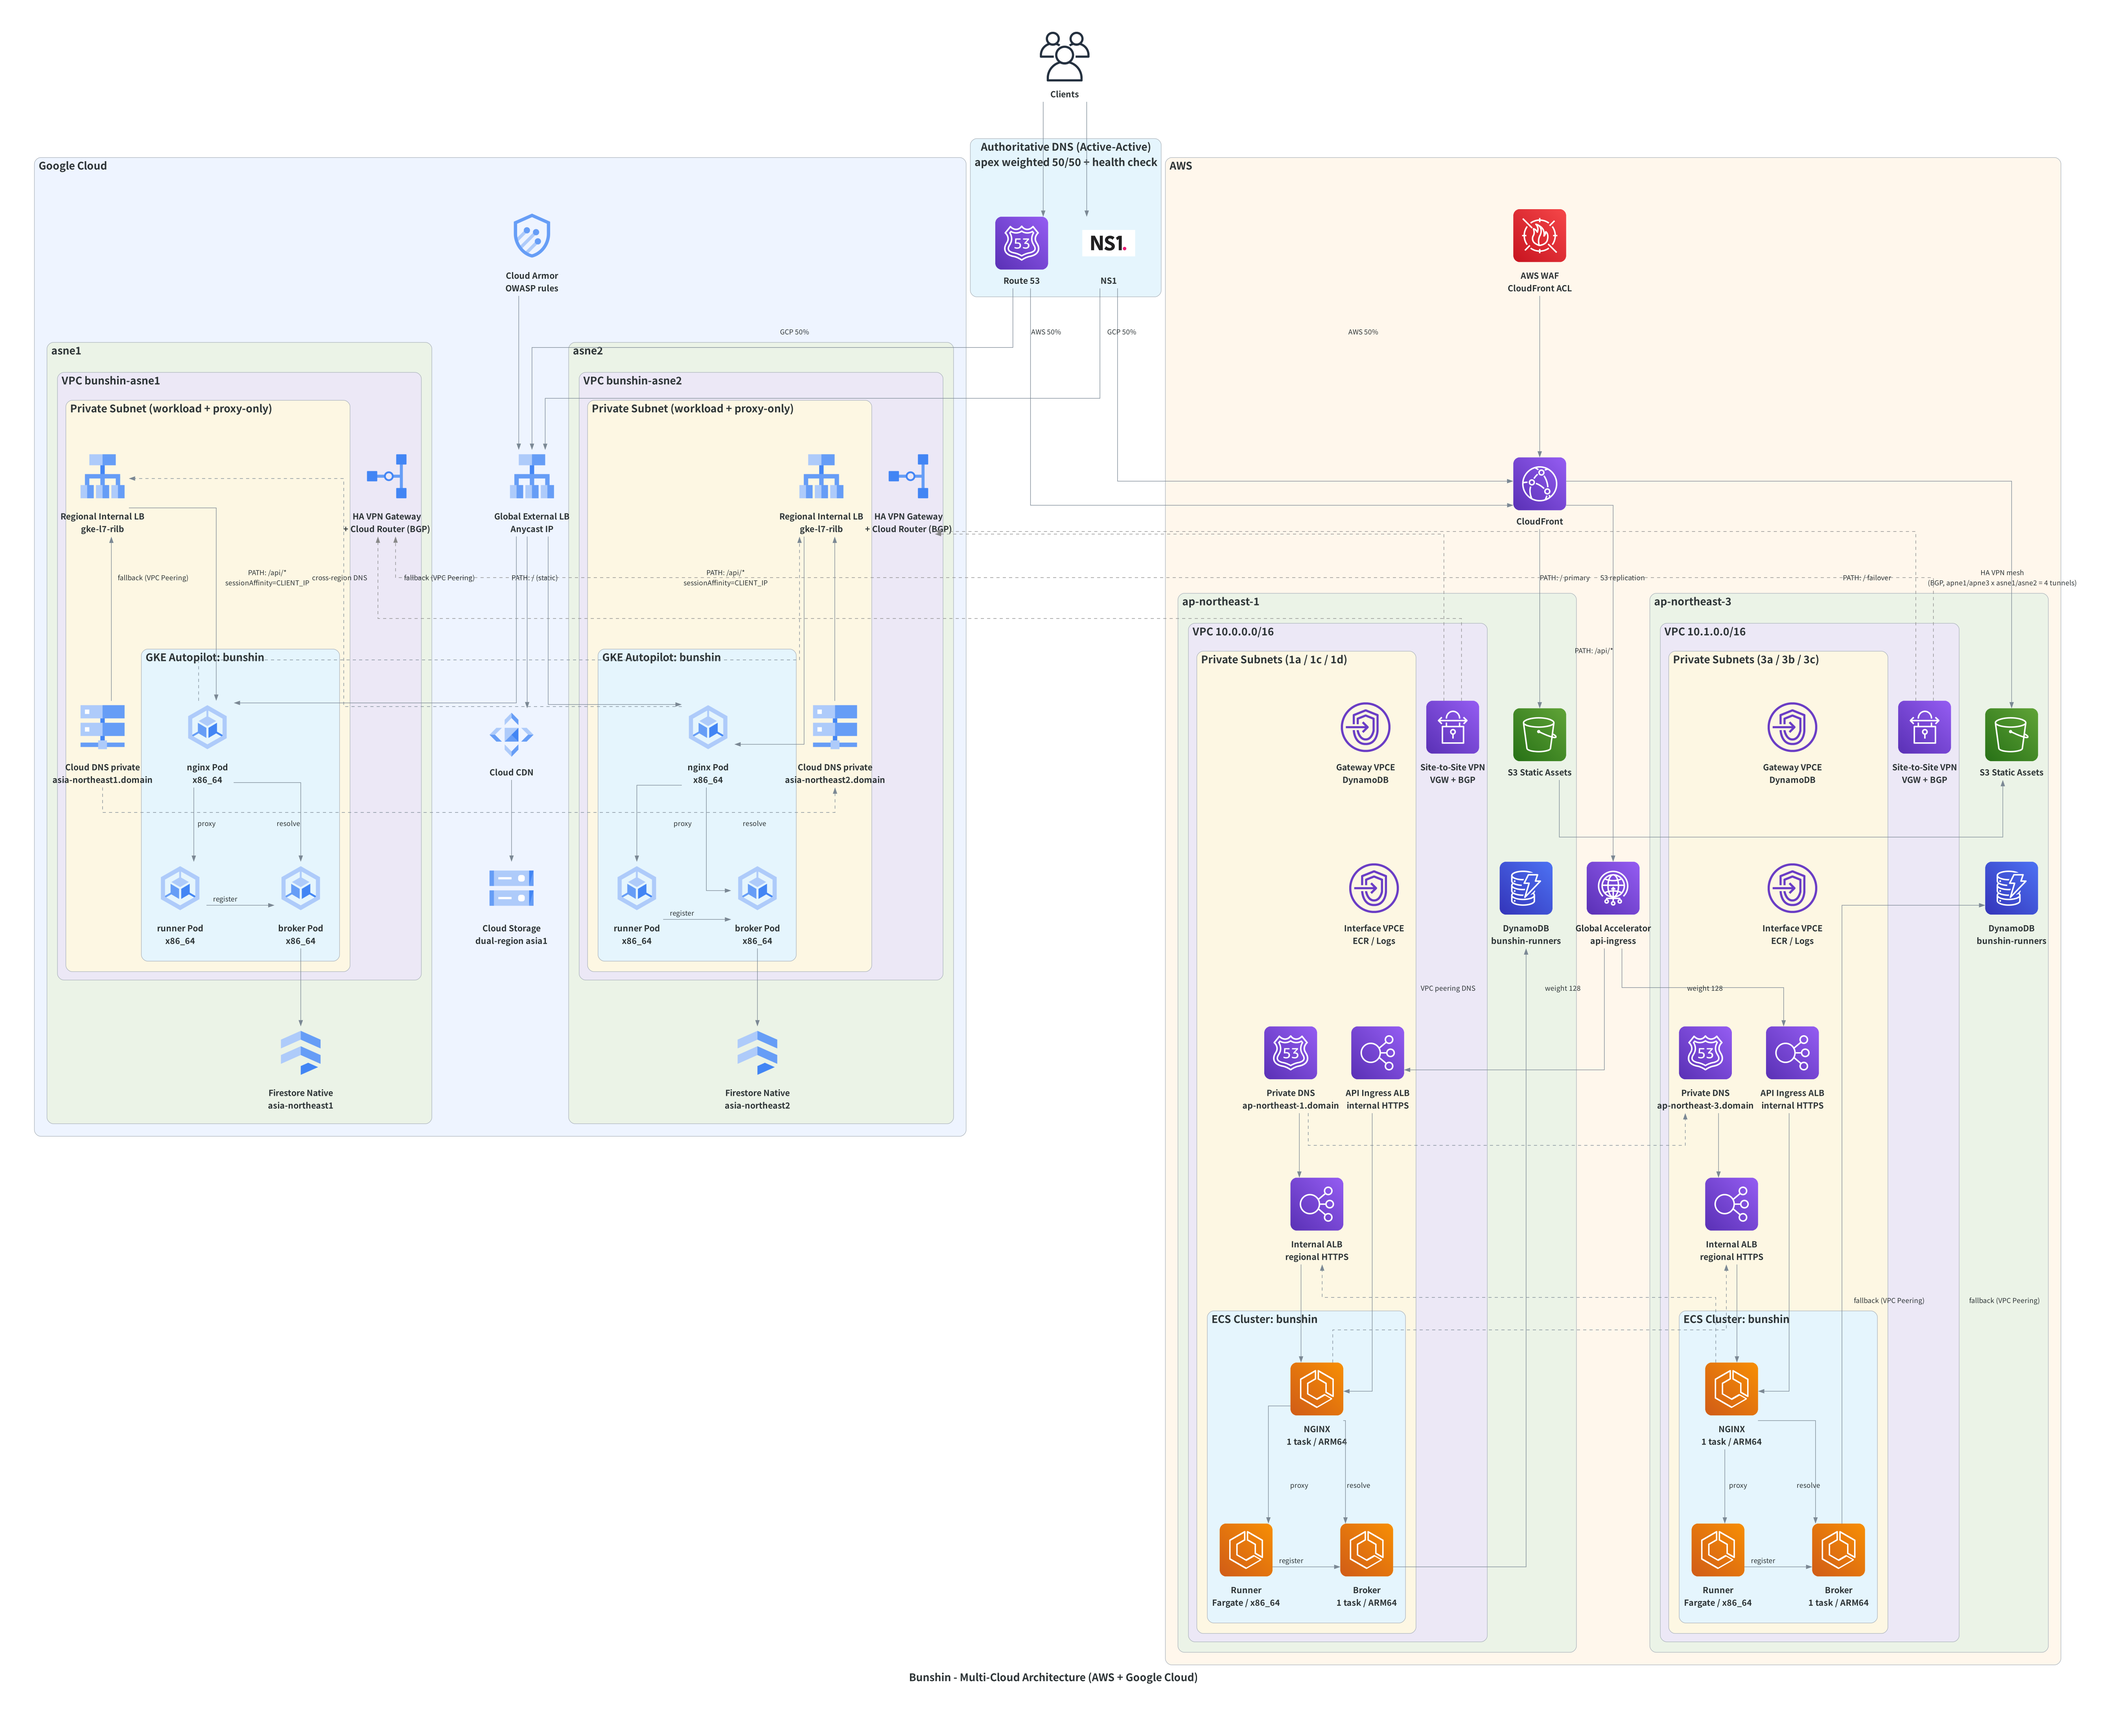
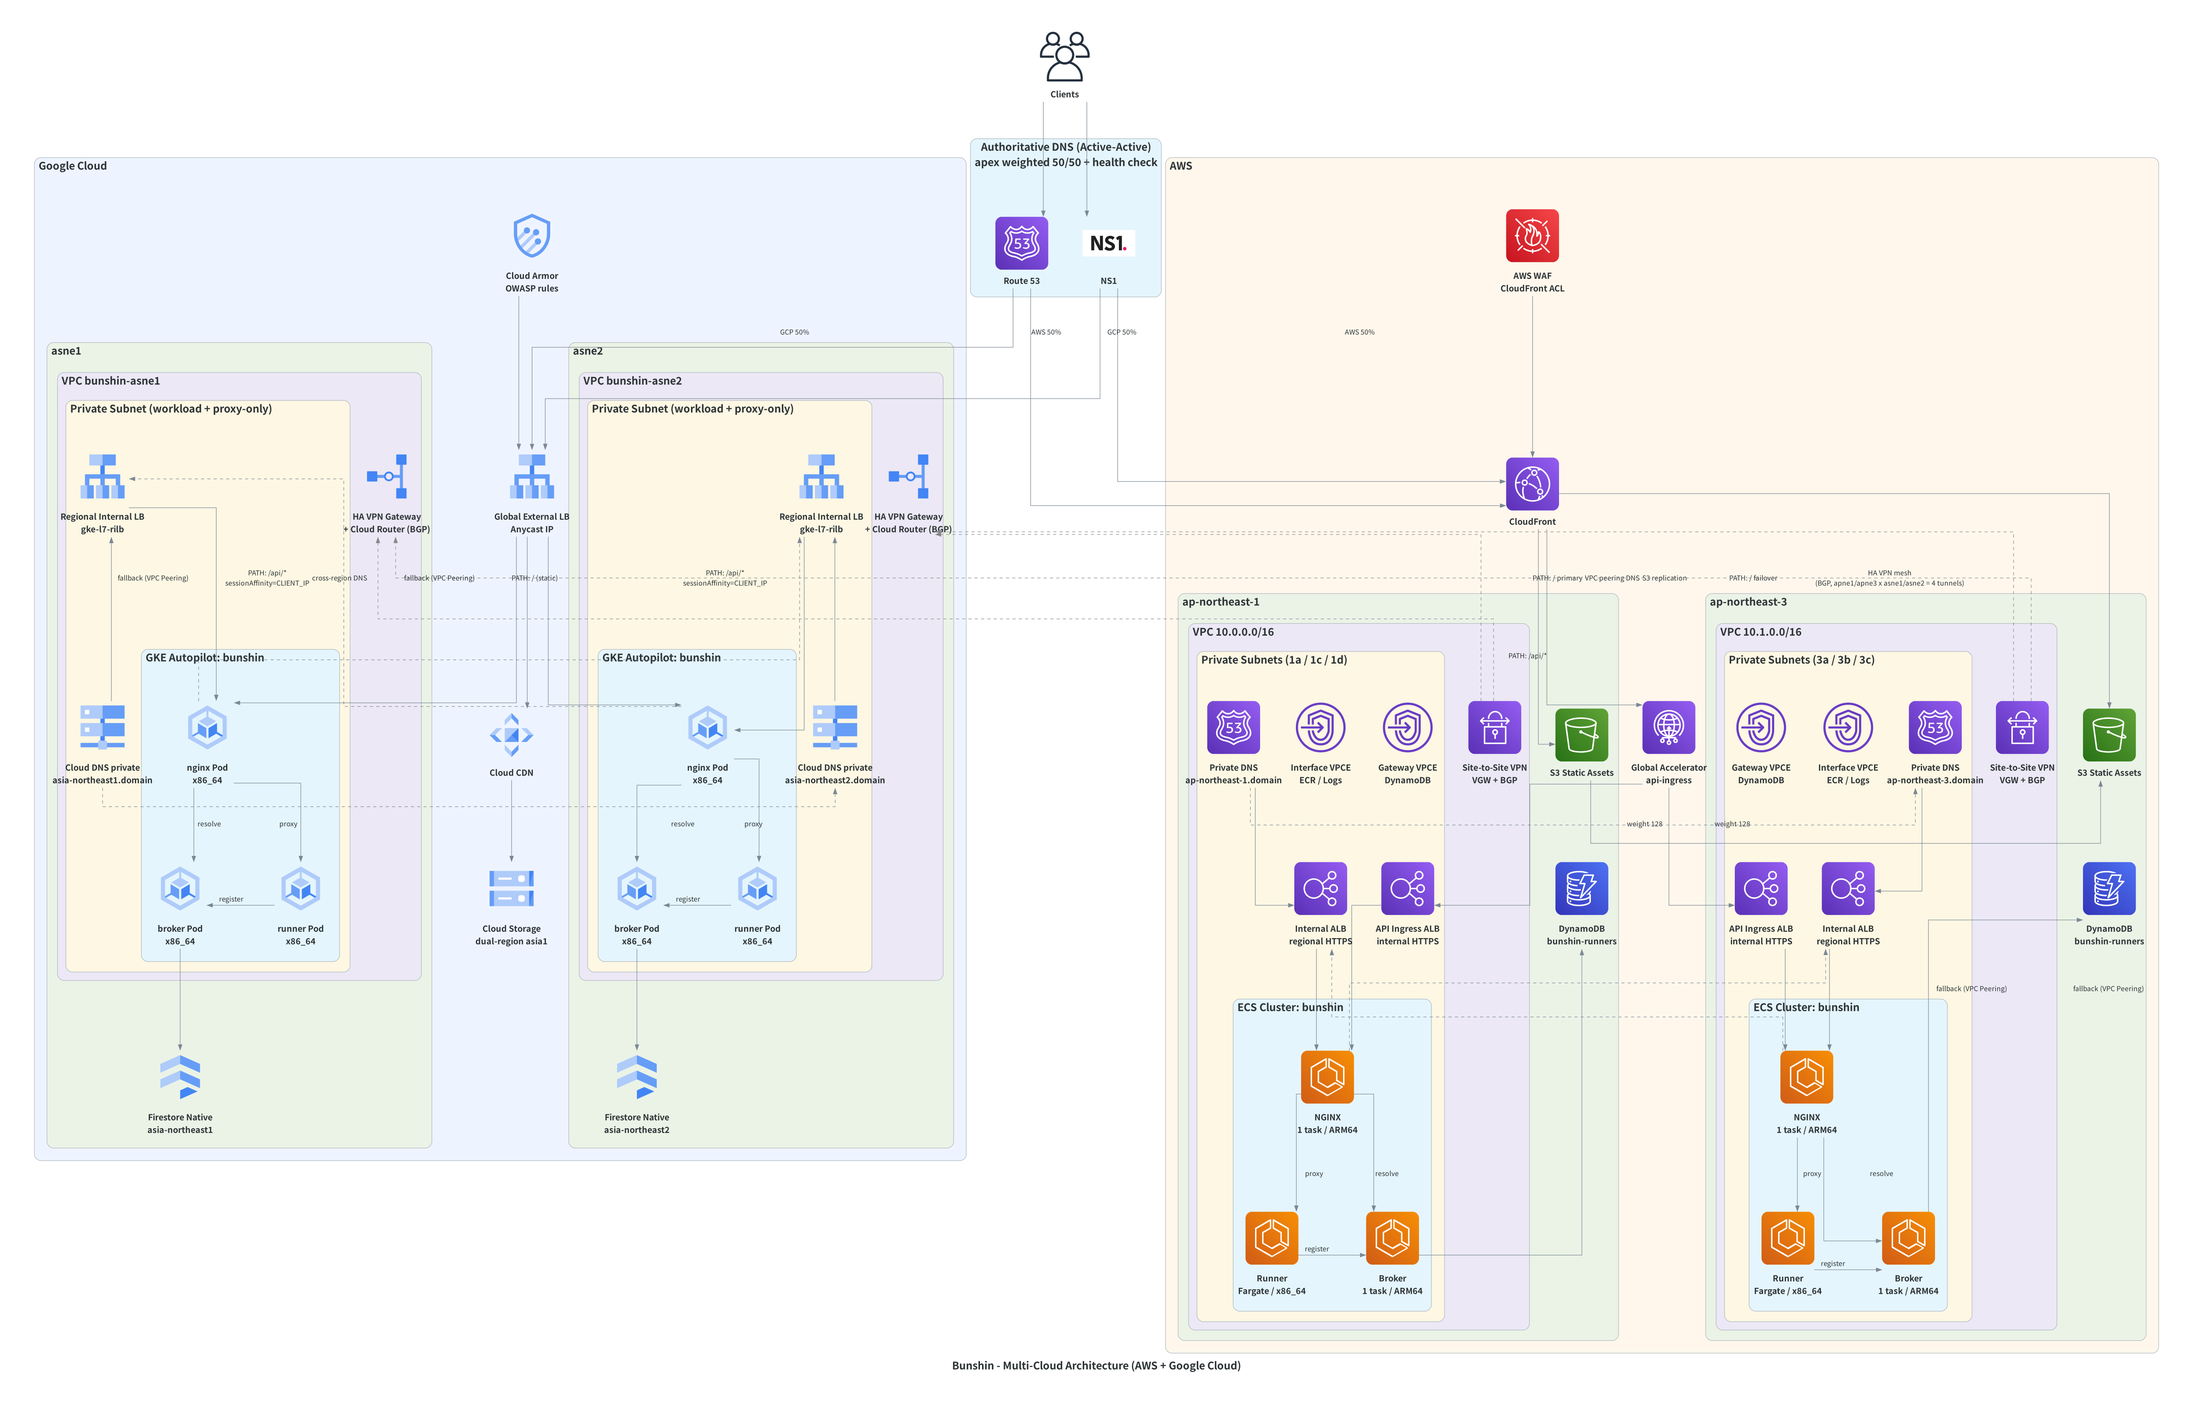
docs: flatten the AWS VPCE and ALB rows in the architecture diagram
The invisible edge chain put Gateway VPCE, Interface VPCE, the API
ingress ALB and the internal ALB in four separate ranks, which left the
AWS block visibly taller than the Google Cloud block. Pairing each VPCE
with one ALB keeps the endpoints above the load balancers and collapses
those four ranks into two.

diff --git a/docs/architecture_diagram.py b/docs/architecture_diagram.py
@@ -78,10 +78,8 @@ def aws_region(name: str, cidr: str, azs: str) -> dict[str, object]:
                 nginx >> Edge(label="proxy") >> runner
                 nginx >> Edge(label="resolve") >> broker
                 runner >> Edge(label="register", constraint="false") >> broker
-                vpce_gateway >> Edge(style="invis") >> vpce_interface
-                vpce_interface >> Edge(style="invis") >> api_alb
-                api_alb >> Edge(style="invis") >> internal_alb
-                internal_alb >> Edge(style="invis") >> nginx
+                vpce_gateway >> Edge(style="invis") >> api_alb
+                vpce_interface >> Edge(style="invis") >> internal_alb
 
         broker >> Edge(constraint="false") >> ddb
         static >> Edge(style="invis") >> ddb
